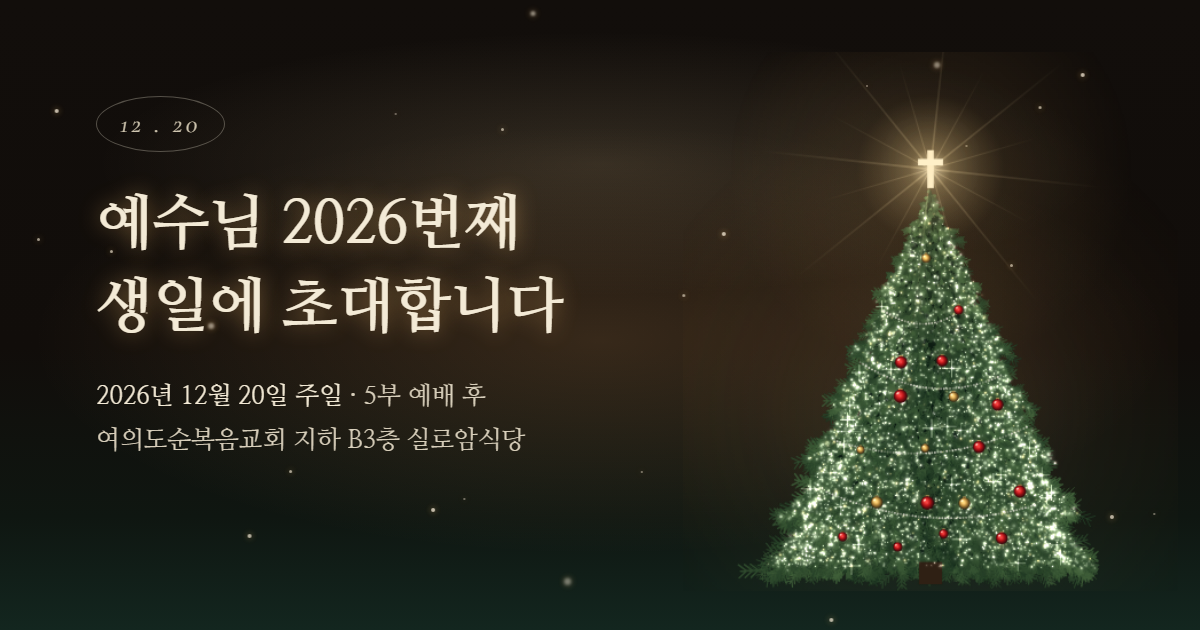
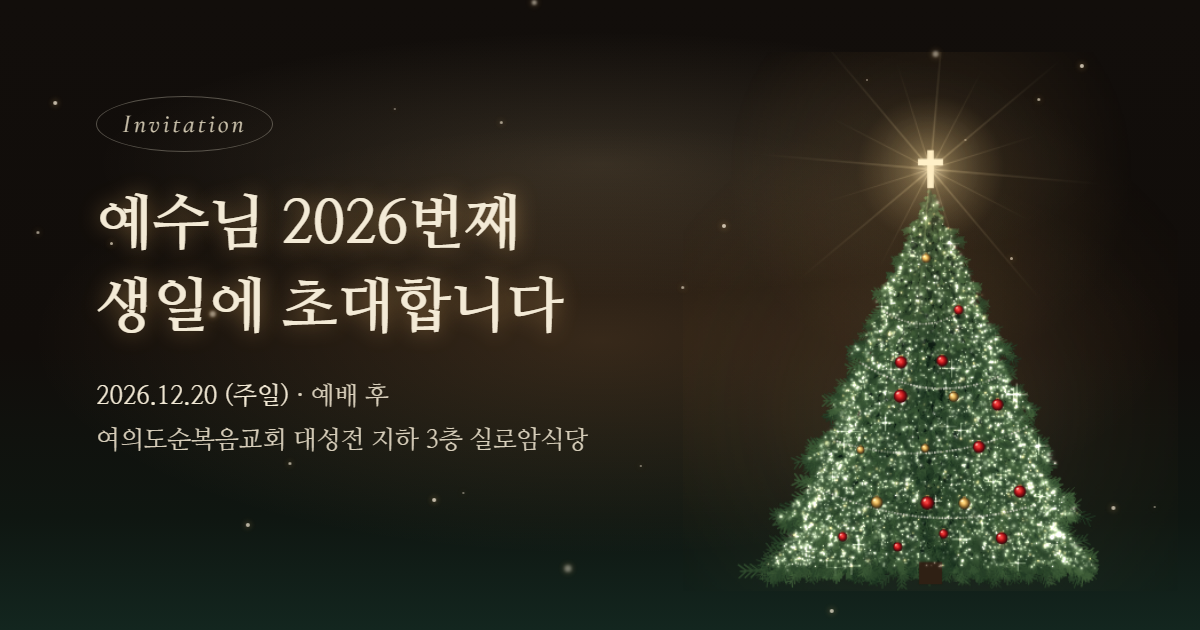
초대장 업데이트 2026-11-25 15:09

diff --git a/index.html b/index.html
@@ -4,10 +4,10 @@
 <meta charset="utf-8">
 <meta name="viewport" content="width=device-width,initial-scale=1,viewport-fit=cover">
 <title>예수님 2026번째 생일에 초대합니다</title>
-<meta name="description" content="12월 20일 주일 5부 예배 후, 여의도순복음교회 지하 B3층 실로암식당">
+<meta name="description" content="2026.12.20(주일) 예배 후, 여의도순복음교회 대성전 지하 3층 실로암식당">
 <meta property="og:type" content="website">
 <meta property="og:title" content="예수님 2026번째 생일에 초대합니다">
-<meta property="og:description" content="12월 20일 주일 5부 예배 후, 여의도순복음교회 지하 B3층 실로암식당">
+<meta property="og:description" content="2026.12.20(주일) 예배 후, 여의도순복음교회 대성전 지하 3층 실로암식당">
 <meta property="og:url" content="https://channy33.github.io/house-party/">
 <meta property="og:image" content="https://channy33.github.io/house-party/og.png">
 <meta property="og:image:width" content="1200">
@@ -132,12 +132,12 @@
     font-family: var(--script);
     font-style: italic;
     font-weight: 400;
-    font-size: 1.2rem;
-    letter-spacing: .14em;
+    font-size: 1.15rem;
+    letter-spacing: .12em;
     color: var(--ivory-soft);
     border: 1px solid rgba(243, 234, 214, .3);
     border-radius: 50%;
-    padding: .3rem 1.45rem;
+    padding: .3rem 1.6rem;
     margin: 0;
   }
   .title {
@@ -206,7 +206,7 @@
   .scripture {
     position: relative;
     z-index: 2;
-    margin: 1.4rem 0 0;
+    margin: 2.1rem 0 0;
     max-width: 23rem;
     display: grid;
     gap: .3rem;
@@ -297,10 +297,33 @@
   .facts { display: grid; gap: 1.1rem; margin: 0; }
   .fact { display: grid; grid-template-columns: 3.1rem 1fr; gap: .9rem; align-items: start; }
   .fact dt { font-family: var(--display); font-size: .86rem; color: var(--muted); padding-top: .2rem; }
-  .fact dd { margin: 0; min-width: 0; }
+  .fact dd { margin: 0; min-width: 0; word-break: keep-all; }
   .fact strong { display: block; font-size: 1.04rem; font-weight: 400; color: var(--ivory); }
   .fact small { display: block; color: var(--muted); font-size: .86rem; margin-top: .1rem; }
-  .fact a { color: var(--gold); text-underline-offset: 3px; }
+  .fact a { color: var(--gold); text-underline-offset: 3px; white-space: nowrap; }
+  .swatches {
+    list-style: none;
+    margin: 0;
+    padding: .1rem 0 0;
+    display: flex;
+    flex-wrap: wrap;
+    gap: .5rem 1rem;
+  }
+  .swatches li {
+    display: inline-flex;
+    align-items: center;
+    gap: .45rem;
+    font-size: 1.02rem;
+    color: var(--ivory);
+  }
+  .swatches i {
+    display: block;
+    width: 1.05rem;
+    height: 1.05rem;
+    border-radius: 50%;
+    background: var(--sw);
+    box-shadow: 0 0 0 1px rgba(230, 200, 140, .45), inset 0 -2px 3px rgba(0, 0, 0, .25);
+  }
   .form { display: grid; gap: 1.1rem; }
   .field { display: grid; gap: .4rem; }
   .field > label, .legend { font-size: .84rem; color: var(--muted); }
@@ -443,7 +466,7 @@
       <i style="left:62%;--t:18%;--s:7px;--o:.4;--b:1.8px;animation-duration:9.8s,5.2s;animation-delay:-8.7s,-3.8s"></i>
       <i style="left:86%;--t:74%;--s:3px;--o:.65;animation-duration:16.8s,7s;animation-delay:-2.4s,-0.6s"></i>
     </div>
-    <p class="badge">12 . 20</p>
+    <p class="badge">Invitation</p>
     <h1 class="title">예수님 2026번째<br>생일에 초대합니다</h1>
     <p class="hint" id="hint">트리 꼭대기 십자가를 눌러 주세요</p>
     <div class="tree-wrap" id="tree-wrap">
@@ -469,20 +492,43 @@
       <p class="intro">우리 교회 식구들과 함께 차리는 생신 잔치에 초대합니다.<br>오셔서 같이 먹고, 같이 노래해요.</p>
     </header>
     <section class="panel" aria-labelledby="when-where">
-      <h2 class="section-title" id="when-where">언제, 어디서</h2>
+      <h2 class="section-title" id="when-where">안내</h2>
       <dl class="facts">
         <div class="fact">
           <dt>일시</dt>
           <dd>
-            <strong>2026년 12월 20일 주일</strong>
-            <small>5부 예배 마친 뒤 바로</small>
+            <strong>2026.12.20 (주일)</strong>
+            <small>예배 후</small>
           </dd>
         </div>
         <div class="fact">
           <dt>장소</dt>
           <dd>
             <strong>실로암식당</strong>
-            <small>여의도순복음교회 지하 B3층 · <a href="https://map.naver.com/p/search/%EC%97%AC%EC%9D%98%EB%8F%84%EC%88%9C%EB%B3%B5%EC%9D%8C%EA%B5%90%ED%9A%8C" target="_blank" rel="noopener">지도 보기</a></small>
+            <small>여의도순복음교회 대성전 지하 3층 · <a href="https://map.naver.com/p/search/%EC%97%AC%EC%9D%98%EB%8F%84%EC%88%9C%EB%B3%B5%EC%9D%8C%EA%B5%90%ED%9A%8C" target="_blank" rel="noopener">지도 보기</a></small>
+          </dd>
+        </div>
+        <div class="fact">
+          <dt>준비물</dt>
+          <dd>
+            <strong>예수님과 식사를 한다면?</strong>
+            <small>어떤 음식을 먹을지 생각해 오고, 준비해 오기</small>
+          </dd>
+        </div>
+        <div class="fact">
+          <dt>케이크</dt>
+          <dd>
+            <strong>교구에서 지원합니다</strong>
+          </dd>
+        </div>
+        <div class="fact">
+          <dt>드레스<br>코드</dt>
+          <dd>
+            <ul class="swatches" aria-label="초록, 빨강, 흰색">
+              <li><i style="--sw:#2f6b45"></i>초록</li>
+              <li><i style="--sw:#b3262e"></i>빨강</li>
+              <li><i style="--sw:#f3ead6"></i>흰색</li>
+            </ul>
           </dd>
         </div>
       </dl>
@@ -507,17 +553,6 @@
             </label>
           </div>
         </fieldset>
-        <div class="field" id="party-field">
-          <label for="rsvp-party">함께 오는 인원 (본인 포함)</label>
-          <select id="rsvp-party" name="party">
-            <option value="1">1명</option>
-            <option value="2">2명</option>
-            <option value="3">3명</option>
-            <option value="4">4명</option>
-            <option value="5">5명</option>
-            <option value="6">6명 이상</option>
-          </select>
-        </div>
         <div class="field">
           <label for="rsvp-word">한마디 (선택)</label>
           <textarea id="rsvp-word" name="word" maxlength="60" placeholder="생일 축하 인사, 또는 못 오시는 사정"></textarea>
@@ -1024,12 +1059,10 @@
   var STORE_KEY = "house-party-rsvp-v1";
   var form       = document.getElementById("rsvp-form");
   var nameEl     = document.getElementById("rsvp-name");
-  var partyEl    = document.getElementById("rsvp-party");
   var wordEl     = document.getElementById("rsvp-word");
   var yesEl      = document.getElementById("rsvp-yes");
   var submitEl   = document.getElementById("rsvp-submit");
   var statusEl   = document.getElementById("rsvp-status");
-  var partyField = document.getElementById("party-field");
   var listEl     = document.getElementById("guest-list");
   var emptyEl    = document.getElementById("guest-empty");
   var countYes   = document.getElementById("count-yes");
@@ -1049,7 +1082,7 @@
     var yes = 0, no = 0;
     listEl.textContent = "";
     entries.forEach(function (entry) {
-      if (entry.attending) { yes += entry.party || 1; } else { no += 1; }
+      if (entry.attending) { yes += 1; } else { no += 1; }
       var li = document.createElement("li");
       li.className = "guest" + (entry.attending ? "" : " guest--no");
       var mark = document.createElement("span");
@@ -1063,9 +1096,7 @@
       head.appendChild(name);
       var meta = document.createElement("span");
       meta.className = "guest__meta";
-      meta.textContent = entry.attending
-        ? (entry.party > 1 ? "  " + entry.party + "명" : "  참석")
-        : "  불참";
+      meta.textContent = entry.attending ? "  참석" : "  불참";
       head.appendChild(meta);
       li.appendChild(head);
       if (entry.word) {
@@ -1085,11 +1116,6 @@
     statusEl.className = warn ? "note note--warn" : "note";
     statusEl.hidden = !message;
   }
-  function syncParty() { partyField.hidden = !yesEl.checked; }
-  form.addEventListener("change", function (event) {
-    if (event.target.name === "attending") { syncParty(); }
-  });
-  syncParty();
   form.addEventListener("submit", function (event) {
     event.preventDefault();
     var name = nameEl.value.trim();
@@ -1098,10 +1124,11 @@
       nameEl.focus();
       return;
     }
+    /* party 칸은 저장소에 남아 있어서, 참석이면 1 · 불참이면 0 으로 채운다 */
     var entry = {
       name: name,
       attending: yesEl.checked,
-      party: yesEl.checked ? Number(partyEl.value) : 0,
+      party: yesEl.checked ? 1 : 0,
       word: wordEl.value.trim(),
       at: new Date().toISOString()
     };
@@ -1111,7 +1138,6 @@
       if (!LIVE) { save(entries); }
       render();
       form.reset();
-      syncParty();
       setStatus(entry.attending
         ? name + "님, 그날 뵐게요!"
         : name + "님, 마음 보내 주셔서 고마워요.", false);
